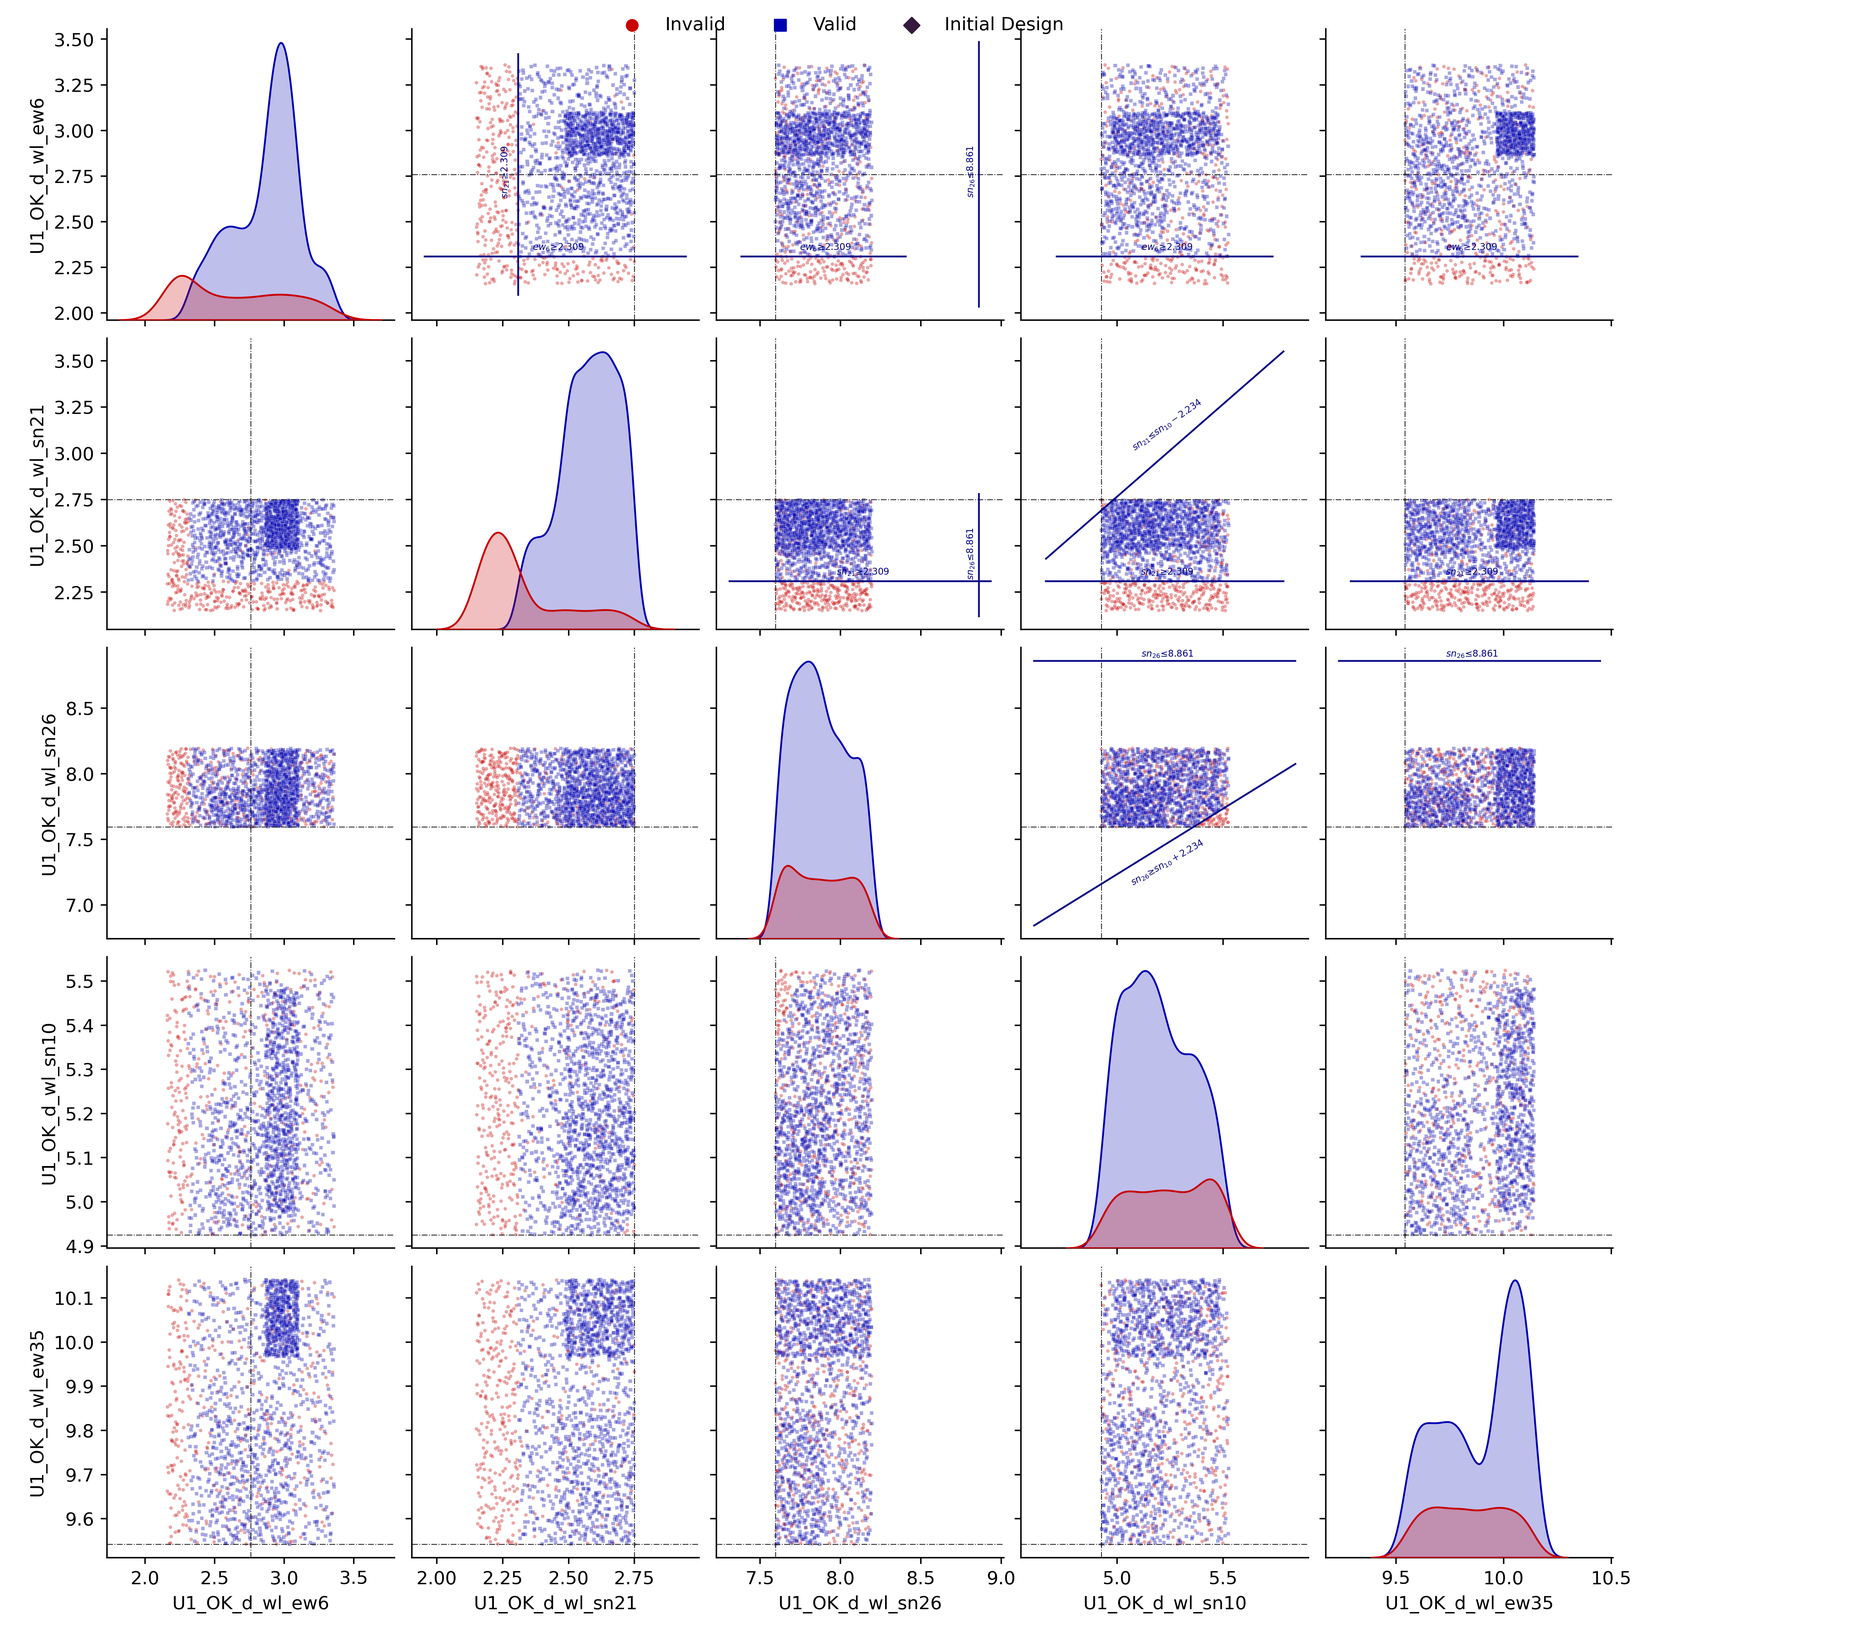
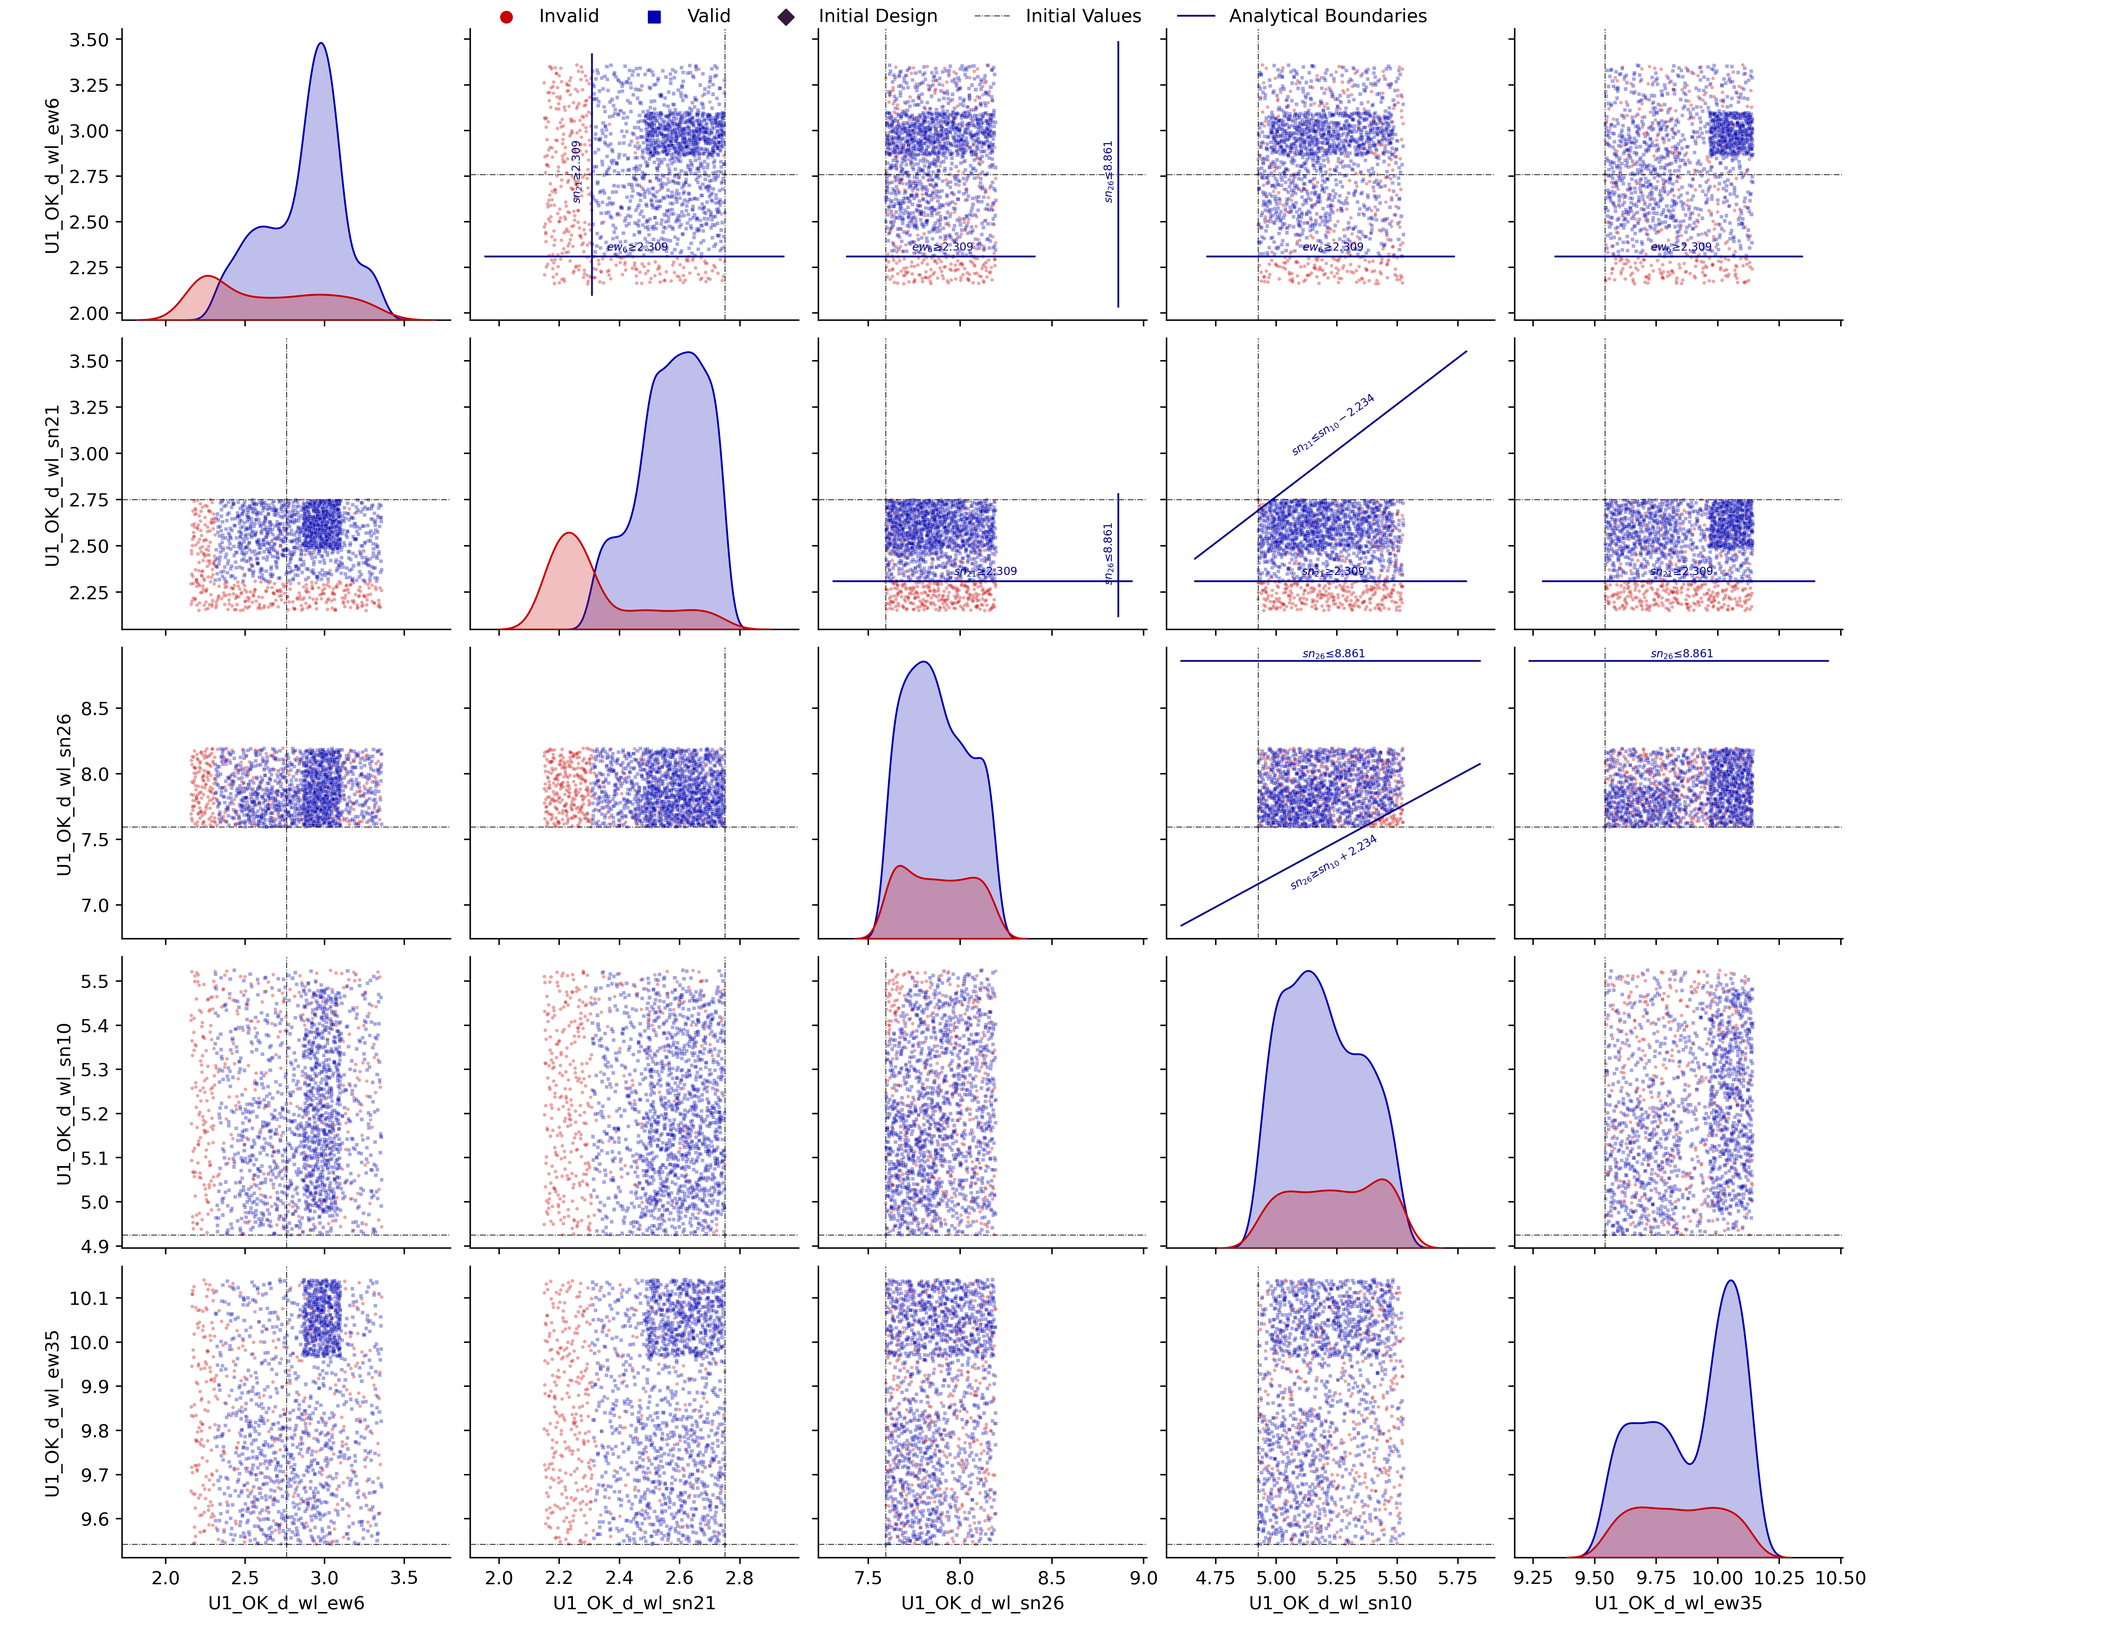
Add image post-processing steps.

diff --git a/src/formSpace.py b/src/formSpace.py
@@ -220,11 +220,6 @@ def reasonSolutionSpace(
                 plot_kws=dict(s=4, edgecolor="white", alpha=0.35),
                 palette=palette_3d,
                 corner=False,)
-            
-            # sns add new line types only in legend
-            # g.lineplot([],[], palette = 'blue', label="Initial values")
-            # g.lineplot([],[], palette = 'orange', label="Analytical boundaries")
-            # g.lineplot([],[], palette = 'cyan', label="Analytical boundaries (dynamic)")
 
             for ax in g.axes.ravel():
                 
@@ -242,7 +237,8 @@ def reasonSolutionSpace(
                         param_x_v = df_plot[param_x].iloc[-1]
                         param_y_v = df_plot[param_y].iloc[-1]
                         ax.axvline(x=param_x_v, ls='-.', linewidth=0.5, alpha=0.80, c='black')
-                        ax.axhline(y=param_y_v, ls='-.', linewidth=0.5, alpha=0.80, c='black')
+                        ax.axhline(y=param_y_v, ls='-.', linewidth=0.5, alpha=0.80, c='black', label='Initial Values')
+                        g._update_legend_data(ax)
 
                         # pad = 0.01
                         # xmin = X[param_x].min() - pad
@@ -265,7 +261,7 @@ def reasonSolutionSpace(
                         # ---------------------------------
                         # 1020_2
                         txt_color = 'navy'
-                        txt_fontsize = 5
+                        txt_fontsize = 6
 
                         # txt_bbox = dict(facecolor='none', edgecolor=txt_color, alpha=0.5)
 
@@ -276,11 +272,14 @@ def reasonSolutionSpace(
                             if param_x == 'U1_OK_d_wl_ew35' and param_y == 'U1_OK_d_wl_ew6':
                             
                                 y_u = x - 6.983
-                                ax.plot(x, y_u, ls='-', linewidth=1.0, alpha=0.95, c = txt_color, label=ax_label)
+                                ax.plot(x, y_u, ls='-', linewidth=1.0, alpha=0.95, c = txt_color, label="Analytical Boundaries")
                                 ax.text(
                                     x[lseg], y_u[lseg] + 2*shift, ax_label, fontsize=txt_fontsize, c = txt_color, ha='center', va='center',
-                                    rotation=35,)
+                                    rotation=35)
+                                
                                 # ax.fill_between(x, y_l, y_u, where=y_l<y_u, color='darkorange', alpha=0.5)
+                                # legend for "Analytical boundaries"
+                                g._update_legend_data(ax)
 
                         # ---------------------------------
                         # 1207_1
@@ -290,13 +289,13 @@ def reasonSolutionSpace(
 
                             if param_x == 'U1_OK_d_wl_sn26' and (param_y == 'U1_OK_d_wl_ew6' or param_y == 'U1_OK_d_wl_sn21'):
                                 x_l = y * 0 + 8.861
-                                ax.plot(x_l, y, ls='-', linewidth=1.0, alpha=0.95, c = txt_color, label=ax_label)
+                                ax.plot(x_l, y, ls='-', linewidth=1.0, alpha=0.95, c = txt_color, label="Analytical Boundaries")
                                 ax.text(
                                     x_l[lseg] - shift, y[lseg], ax_label, fontsize=txt_fontsize, c = txt_color, ha='center', va='center',
                                     rotation=90,)
                             if param_y == 'U1_OK_d_wl_sn26' and (param_x == 'U1_OK_d_wl_sn10' or param_x == 'U1_OK_d_wl_ew35'):
                                 y_u = x * 0 + 8.861
-                                ax.plot(x, y_u, ls='-', linewidth=1.0, alpha=0.95, c = txt_color, label=ax_label)
+                                ax.plot(x, y_u, ls='-', linewidth=1.0, alpha=0.95, c = txt_color, label="Analytical Boundaries")
                                 ax.text(
                                     x[lseg], y_u[lseg] + shift, ax_label, fontsize=txt_fontsize, c = txt_color, ha='center', va='center',
                                     rotation=0,)
@@ -305,13 +304,13 @@ def reasonSolutionSpace(
 
                             if param_y == 'U1_OK_d_wl_sn21' and param_x !='U1_OK_d_wl_ew6':
                                 y_l = x * 0 + 2.309
-                                ax.plot(x, y_l, ls='-', linewidth=1.0, alpha=0.95, c = txt_color, label=ax_label)
+                                ax.plot(x, y_l, ls='-', linewidth=1.0, alpha=0.95, c = txt_color, label="Analytical Boundaries")
                                 ax.text(
                                     x[lseg], y_l[lseg] + shift, ax_label, fontsize=txt_fontsize, c = txt_color, ha='center', va='center',
                                     rotation=0,)
                             if param_x == 'U1_OK_d_wl_sn21' and param_y == 'U1_OK_d_wl_ew6':
                                 x_u = y *0 + + 2.309
-                                ax.plot(x_u, y, ls='-', linewidth=1.0, alpha=0.95, c = txt_color, label=ax_label)
+                                ax.plot(x_u, y, ls='-', linewidth=1.0, alpha=0.95, c = txt_color, label="Analytical Boundaries")
                                 ax.text(
                                     x_u[lseg] - shift, y[lseg], ax_label, fontsize=txt_fontsize, c = txt_color, ha='center', va='center',
                                     rotation=90,)
@@ -320,7 +319,7 @@ def reasonSolutionSpace(
                             
                             if param_y == 'U1_OK_d_wl_ew6':
                                 y_u = x * 0 + 2.309
-                                ax.plot(x, y_u, ls='-', linewidth=1.0, alpha=0.95, c = txt_color, label=ax_label)
+                                ax.plot(x, y_u, ls='-', linewidth=1.0, alpha=0.95, c = txt_color, label="Analytical Boundaries")
                                 ax.text(
                                     x[lseg], y_u[lseg] + shift, ax_label, fontsize=txt_fontsize, c = txt_color, ha='center', va='center',
                                     rotation=0,)
@@ -329,7 +328,7 @@ def reasonSolutionSpace(
 
                             if param_x == 'U1_OK_d_wl_sn10' and param_y == 'U1_OK_d_wl_sn26':
                                 y_l = x + 2.234
-                                ax.plot(x, y_l, ls='-', linewidth=1.0, alpha=0.95, c = txt_color, label=ax_label)
+                                ax.plot(x, y_l, ls='-', linewidth=1.0, alpha=0.95, c = txt_color, label="Analytical Boundaries")
                                 ax.text(
                                     x[lseg], y_l[lseg] - 3*shift, ax_label, fontsize=txt_fontsize, c = txt_color, ha='center', va='center',
                                     rotation=30,)
@@ -338,10 +337,13 @@ def reasonSolutionSpace(
 
                             if param_x == 'U1_OK_d_wl_sn10' and param_y == 'U1_OK_d_wl_sn21':
                                 y_u = x - 2.234
-                                ax.plot(x, y_u, ls='-', linewidth=1.0, alpha=0.95, c = txt_color, label=ax_label)
+                                ax.plot(x, y_u, ls='-', linewidth=1.0, alpha=0.95, c = txt_color, label="Analytical Boundaries")
                                 ax.text(
                                     x[lseg], y_u[lseg] + 3*shift, ax_label, fontsize=txt_fontsize, c = txt_color, ha='center', va='center',
                                     rotation=35,)
+                                
+                                # legend for "Analytical Boundaries"
+                                g._update_legend_data(ax)
 
                         # # ---------------------------------
                         # 1207_3
@@ -351,7 +353,7 @@ def reasonSolutionSpace(
 
                             if param_y == 'U1_OK_d_wl_ew6' and param_x == 'U1_OK_d_wl_sn26':
                                 y_l = 6.5 / (10.995-x) + 0.175
-                                ax.plot(x, y_l, ls='-', linewidth=1.0, alpha=0.95, c = txt_color, label=ax_label)
+                                ax.plot(x, y_l, ls='-', linewidth=1.0, alpha=0.95, c = txt_color, label="Analytical Boundaries")
                                 ax.text(
                                     x[lseg], y_l[lseg] - 2*shift, ax_label, fontsize=txt_fontsize, c = txt_color, ha='center', va='center',
                                     rotation=35,)
@@ -360,14 +362,16 @@ def reasonSolutionSpace(
 
                             if param_y == 'U1_OK_d_wl_ew6' and param_x == 'U1_OK_d_wl_sn21':
                                 y_l = 6.5 / (x-0.125) + 0.175
-                                ax.plot(x, y_l, ls='-', linewidth=1.0, alpha=0.95, c = txt_color, label=ax_label)
+                                ax.plot(x, y_l, ls='-', linewidth=1.0, alpha=0.95, c = txt_color, label="Analytical Boundaries")
                                 ax.text(
                                     x[lseg], y_l[lseg] - shift, ax_label, fontsize=txt_fontsize, c = txt_color, ha='center', va='center',
                                     rotation=-35,)
+                                
+                                # legend for "Analytical Boundaries"
+                                g._update_legend_data(ax)
 
                             txt_color = 'darkgreen'
-                            txt_fontsize = 4
-                            # txt_bbox = dict(facecolor='none', edgecolor=txt_color, pad=txt_bbox_pad, alpha=0.5)
+                            txt_fontsize = 5
 
                             for ew6 in [2.309, 3]:
                                 
@@ -376,7 +380,7 @@ def reasonSolutionSpace(
                                 if param_y == 'U1_OK_d_wl_sn26' and param_x == 'U1_OK_d_wl_sn10':
                                     
                                     y_l = x + 0.1 + 6.5 /(ew6 - 0.175)
-                                    ax.plot(x, y_l, ls='--', linewidth=0.5, alpha=0.75, c=txt_color, label=ax_label)
+                                    ax.plot(x, y_l, ls='--', linewidth=0.5, alpha=0.75, c=txt_color, label="Analytical Boundaries (dynamic)")
                                     ax.text(
                                         x[lseg], y_l[lseg] + 2*shift, ax_label, fontsize=txt_fontsize, c=txt_color, ha='center', va='center',
                                         rotation=0,)
@@ -385,15 +389,25 @@ def reasonSolutionSpace(
 
                                 if param_y == 'U1_OK_d_wl_sn21' and param_x == 'U1_OK_d_wl_sn10':
                                     y_u = x - 0.1 - 6.5 /(ew6 - 0.175)
-                                    ax.plot(x, y_u, ls='--', linewidth=0.5, alpha=0.75, c=txt_color, label=ax_label)
+                                    ax.plot(x, y_u, ls='--', linewidth=0.5, alpha=0.75, c=txt_color, label="Analytical Boundaries (dynamic)")
                                     ax.text(
                                         x[lseg], y_u[lseg] + 2*shift, ax_label, fontsize=txt_fontsize, c=txt_color, ha='center', va='center',
                                         rotation=0,)
-        
-            sns.move_legend(g, "upper center", bbox_to_anchor=(.45, 1), ncol=6, title=None)
-            # g.map_upper(sns.kdeplot, levels=2, color=".8", linestyles= 'dashed', alpha=0.75, linewidths=1)
+                                    
+                                    # legend for "Analytical boundaries (dynamic)"
+                                    g._update_legend_data(ax)
+
+            # legend arrangement.
+            g._legend.remove()
+            g.add_legend(label_order=g._legend_data.keys(), title=None)                        
+            sns.move_legend(g, "upper center", bbox_to_anchor=(.45, 1.005), ncol=len(g._legend_data.keys()), title=None)
+
+            # https://programtalk.com/vs4/python/icaros-usc/dqd-rl/external/seaborn/seaborn/axisgrid.py/
+
+            # g.map_lower(sns.kdeplot, levels=2, color=".8", linestyles= 'dashed', alpha=0.75, linewidths=1)
+
             plt.savefig(DIRS_DATA_SS_FIG + r'\{}_{}_pairwise_relationship_{}.png'.format(versionSpace, sourceSpace, label_compliance), dpi=400)
-            break 
+            
 
     if plot_knc:
         pca = PCA(n_components=3)

diff --git a/src/tuneFigures.py b/src/tuneFigures.py
@@ -1,0 +1,146 @@
+#
+# tuneFigures.py
+#
+
+# import modules
+import cv2
+
+FOLDER_PAPER_FIGURES = r'C:\dev\phd\ModelHealer\paper-figures'
+FOLDER_PAPER_FIGURES_NEW = r'C:\dev\phd\ModelHealer\paper-figures\new'
+figure_name = r'\U1_OK_RES_IBC1020_2_neighbor_3.png'
+
+figure_file = FOLDER_PAPER_FIGURES + figure_name
+figure_file_new  = FOLDER_PAPER_FIGURES_NEW + figure_name
+
+label_dict = dict()
+#-
+label_name = 'ew35'
+new_dict = {
+    'im_text': label_name,
+    'im_x': 2020,
+    'im_y': 300,
+    }
+label_dict.update({label_name: new_dict})
+#-
+label_name = 'ew9'
+new_dict = {
+    'im_text': label_name,
+    'im_x': 2220,
+    'im_y': 300,
+    }
+label_dict.update({label_name: new_dict})
+#-
+label_name = 'ew7'
+new_dict = {
+    'im_text': label_name,
+    'im_x': 2360,
+    'im_y': 300,
+    }
+label_dict.update({label_name: new_dict})
+#-
+label_name = 'ew6'
+new_dict = {
+    'im_text': label_name,
+    'im_x': 2450,
+    'im_y': 300,
+    }
+label_dict.update({label_name: new_dict})
+
+#----------------------------------------
+label_name = 'sn21'
+new_dict = {
+    'im_text': label_name,
+    'im_x': 2650,
+    'im_y': 490,
+    }
+label_dict.update({label_name: new_dict})
+#-
+label_name = 'sn10'
+new_dict = {
+    'im_text': label_name,
+    'im_x': 2650,
+    'im_y': 620,
+    }
+label_dict.update({label_name: new_dict})
+#-
+label_name = 'sn26'
+new_dict = {
+    'im_text': label_name,
+    'im_x': 2650,
+    'im_y': 770,
+    }
+label_dict.update({label_name: new_dict})
+#-
+label_name = 'sn25'
+new_dict = {
+    'im_text': label_name,
+    'im_x': 2650,
+    'im_y': 970,
+    }
+label_dict.update({label_name: new_dict})
+#-
+label_name = 'sn19'
+new_dict = {
+    'im_text': label_name,
+    'im_x': 2650,
+    'im_y': 1120,
+    }
+label_dict.update({label_name: new_dict})
+
+#----------------------------------------
+label_name = 'sn9'
+new_dict = {
+    'im_text': label_name,
+    'im_x': 2330,
+    'im_y': 460,
+    }
+label_dict.update({label_name: new_dict})
+#-
+label_name = 'sn23'
+new_dict = {
+    'im_text': label_name,
+    'im_x': 2330,
+    'im_y': 830,
+    }
+label_dict.update({label_name: new_dict})
+
+im = cv2.imread(figure_file)
+
+im_h, im_w = im.shape[:2]
+
+for key in label_dict.keys():
+
+    # constant values.
+    font = cv2.FONT_HERSHEY_DUPLEX
+
+    # variant values.
+    cv2.putText(
+        im,
+        label_dict[key]['im_text'],
+        (label_dict[key]['im_x'],label_dict[key]['im_y']),
+        font,
+        0.9,
+        (0, 0, 0),
+        2,
+        cv2.LINE_AA)
+
+x,y = 0,0
+
+c_t = 100
+c_b = 260
+c_l = 350
+c_r = 250
+
+crop_im = im[y+c_t:y+im_h-c_b, x+c_l:x+im_w-c_r]
+cv2.imwrite(figure_file_new, crop_im)
+
+
+# FONT_HERSHEY_SIMPLEX = 0,
+# FONT_HERSHEY_PLAIN = 1,
+# FONT_HERSHEY_DUPLEX = 2,
+# FONT_HERSHEY_COMPLEX = 3,
+# FONT_HERSHEY_TRIPLEX = 4,
+# FONT_HERSHEY_COMPLEX_SMALL = 5,
+# FONT_HERSHEY_SCRIPT_SIMPLEX = 6,
+# FONT_HERSHEY_SCRIPT_COMPLEX = 7,
+# FONT_ITALIC = 16
